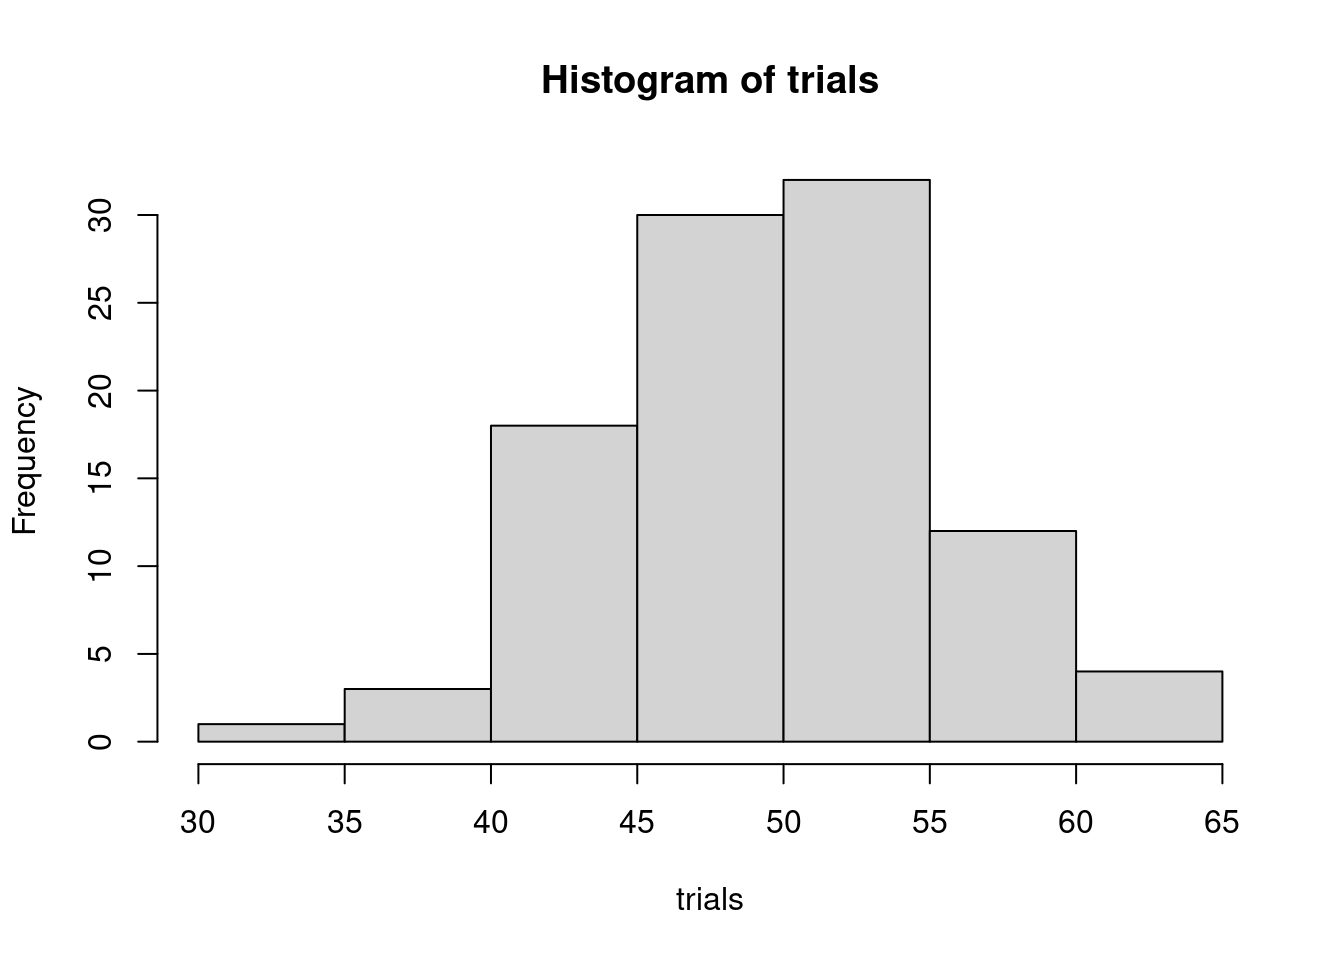
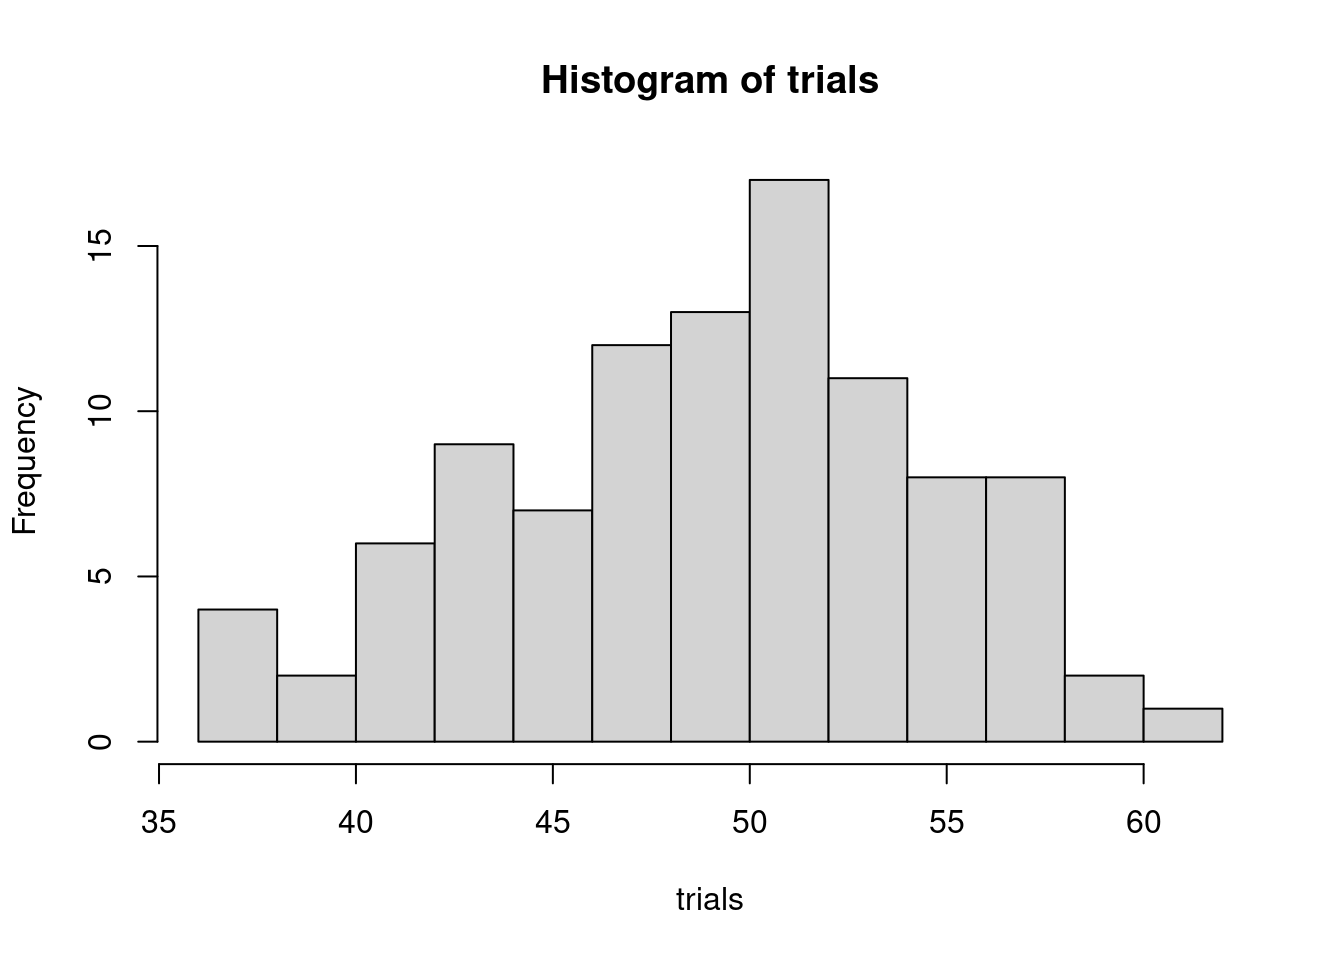
Variance added - ready to publish

diff --git a/_book/discrete-probability.html b/_book/discrete-probability.html
@@ -336,18 +336,18 @@ code span.wa { color: #60a0b0; font-weight: bold; font-style: italic; } /* Warni
 <div class="sourceCode" id="cb1"><pre class="sourceCode r"><code class="sourceCode r"><span id="cb1-1"><a href="discrete-probability.html#cb1-1" aria-hidden="true" tabindex="-1"></a>x <span class="ot">&lt;-</span> <span class="fu">c</span>(<span class="st">&quot;H&quot;</span>, <span class="st">&quot;T&quot;</span>)</span>
 <span id="cb1-2"><a href="discrete-probability.html#cb1-2" aria-hidden="true" tabindex="-1"></a>result <span class="ot">&lt;-</span> <span class="fu">sample</span>(x, <span class="dv">200</span>, <span class="at">replace=</span><span class="cn">TRUE</span>)</span>
 <span id="cb1-3"><a href="discrete-probability.html#cb1-3" aria-hidden="true" tabindex="-1"></a>result</span></code></pre></div>
-<pre><code>##   [1] &quot;H&quot; &quot;T&quot; &quot;T&quot; &quot;T&quot; &quot;H&quot; &quot;H&quot; &quot;T&quot; &quot;H&quot; &quot;T&quot; &quot;H&quot; &quot;H&quot; &quot;T&quot; &quot;H&quot; &quot;T&quot; &quot;T&quot; &quot;H&quot; &quot;T&quot; &quot;T&quot;
-##  [19] &quot;T&quot; &quot;T&quot; &quot;H&quot; &quot;T&quot; &quot;H&quot; &quot;T&quot; &quot;T&quot; &quot;H&quot; &quot;T&quot; &quot;T&quot; &quot;T&quot; &quot;T&quot; &quot;T&quot; &quot;T&quot; &quot;T&quot; &quot;T&quot; &quot;H&quot; &quot;T&quot;
-##  [37] &quot;T&quot; &quot;H&quot; &quot;T&quot; &quot;H&quot; &quot;T&quot; &quot;H&quot; &quot;H&quot; &quot;H&quot; &quot;H&quot; &quot;H&quot; &quot;T&quot; &quot;H&quot; &quot;H&quot; &quot;T&quot; &quot;T&quot; &quot;H&quot; &quot;H&quot; &quot;H&quot;
-##  [55] &quot;H&quot; &quot;H&quot; &quot;H&quot; &quot;T&quot; &quot;H&quot; &quot;T&quot; &quot;H&quot; &quot;T&quot; &quot;H&quot; &quot;H&quot; &quot;H&quot; &quot;H&quot; &quot;H&quot; &quot;T&quot; &quot;T&quot; &quot;H&quot; &quot;T&quot; &quot;T&quot;
-##  [73] &quot;T&quot; &quot;H&quot; &quot;T&quot; &quot;H&quot; &quot;H&quot; &quot;H&quot; &quot;T&quot; &quot;T&quot; &quot;T&quot; &quot;H&quot; &quot;H&quot; &quot;H&quot; &quot;H&quot; &quot;T&quot; &quot;T&quot; &quot;H&quot; &quot;H&quot; &quot;H&quot;
-##  [91] &quot;T&quot; &quot;T&quot; &quot;H&quot; &quot;T&quot; &quot;T&quot; &quot;T&quot; &quot;T&quot; &quot;T&quot; &quot;H&quot; &quot;T&quot; &quot;H&quot; &quot;H&quot; &quot;T&quot; &quot;T&quot; &quot;H&quot; &quot;T&quot; &quot;T&quot; &quot;T&quot;
-## [109] &quot;H&quot; &quot;T&quot; &quot;T&quot; &quot;H&quot; &quot;H&quot; &quot;H&quot; &quot;H&quot; &quot;T&quot; &quot;T&quot; &quot;H&quot; &quot;T&quot; &quot;T&quot; &quot;T&quot; &quot;H&quot; &quot;T&quot; &quot;H&quot; &quot;T&quot; &quot;H&quot;
-## [127] &quot;H&quot; &quot;T&quot; &quot;H&quot; &quot;H&quot; &quot;T&quot; &quot;T&quot; &quot;H&quot; &quot;H&quot; &quot;H&quot; &quot;T&quot; &quot;H&quot; &quot;H&quot; &quot;T&quot; &quot;T&quot; &quot;H&quot; &quot;T&quot; &quot;T&quot; &quot;T&quot;
-## [145] &quot;T&quot; &quot;T&quot; &quot;T&quot; &quot;T&quot; &quot;T&quot; &quot;T&quot; &quot;H&quot; &quot;H&quot; &quot;T&quot; &quot;H&quot; &quot;H&quot; &quot;T&quot; &quot;H&quot; &quot;H&quot; &quot;H&quot; &quot;H&quot; &quot;T&quot; &quot;H&quot;
-## [163] &quot;T&quot; &quot;H&quot; &quot;T&quot; &quot;T&quot; &quot;H&quot; &quot;H&quot; &quot;T&quot; &quot;H&quot; &quot;T&quot; &quot;H&quot; &quot;T&quot; &quot;T&quot; &quot;T&quot; &quot;T&quot; &quot;H&quot; &quot;H&quot; &quot;T&quot; &quot;T&quot;
-## [181] &quot;H&quot; &quot;T&quot; &quot;T&quot; &quot;H&quot; &quot;H&quot; &quot;T&quot; &quot;H&quot; &quot;H&quot; &quot;H&quot; &quot;T&quot; &quot;T&quot; &quot;H&quot; &quot;H&quot; &quot;H&quot; &quot;T&quot; &quot;T&quot; &quot;T&quot; &quot;T&quot;
-## [199] &quot;T&quot; &quot;H&quot;</code></pre>
+<pre><code>##   [1] &quot;H&quot; &quot;H&quot; &quot;H&quot; &quot;H&quot; &quot;H&quot; &quot;T&quot; &quot;T&quot; &quot;T&quot; &quot;H&quot; &quot;T&quot; &quot;T&quot; &quot;H&quot; &quot;T&quot; &quot;H&quot; &quot;H&quot; &quot;H&quot; &quot;H&quot; &quot;H&quot;
+##  [19] &quot;T&quot; &quot;H&quot; &quot;H&quot; &quot;H&quot; &quot;T&quot; &quot;H&quot; &quot;T&quot; &quot;H&quot; &quot;T&quot; &quot;T&quot; &quot;H&quot; &quot;T&quot; &quot;H&quot; &quot;T&quot; &quot;H&quot; &quot;T&quot; &quot;T&quot; &quot;T&quot;
+##  [37] &quot;H&quot; &quot;H&quot; &quot;T&quot; &quot;T&quot; &quot;T&quot; &quot;T&quot; &quot;H&quot; &quot;T&quot; &quot;H&quot; &quot;T&quot; &quot;H&quot; &quot;T&quot; &quot;T&quot; &quot;H&quot; &quot;H&quot; &quot;H&quot; &quot;T&quot; &quot;H&quot;
+##  [55] &quot;T&quot; &quot;H&quot; &quot;T&quot; &quot;H&quot; &quot;T&quot; &quot;T&quot; &quot;T&quot; &quot;T&quot; &quot;H&quot; &quot;T&quot; &quot;H&quot; &quot;T&quot; &quot;H&quot; &quot;T&quot; &quot;H&quot; &quot;T&quot; &quot;H&quot; &quot;H&quot;
+##  [73] &quot;T&quot; &quot;H&quot; &quot;T&quot; &quot;H&quot; &quot;H&quot; &quot;T&quot; &quot;T&quot; &quot;H&quot; &quot;H&quot; &quot;H&quot; &quot;T&quot; &quot;T&quot; &quot;H&quot; &quot;T&quot; &quot;H&quot; &quot;H&quot; &quot;T&quot; &quot;T&quot;
+##  [91] &quot;H&quot; &quot;T&quot; &quot;H&quot; &quot;T&quot; &quot;H&quot; &quot;H&quot; &quot;T&quot; &quot;T&quot; &quot;H&quot; &quot;T&quot; &quot;T&quot; &quot;H&quot; &quot;H&quot; &quot;T&quot; &quot;T&quot; &quot;H&quot; &quot;T&quot; &quot;H&quot;
+## [109] &quot;H&quot; &quot;H&quot; &quot;T&quot; &quot;T&quot; &quot;H&quot; &quot;H&quot; &quot;T&quot; &quot;T&quot; &quot;H&quot; &quot;H&quot; &quot;H&quot; &quot;T&quot; &quot;H&quot; &quot;T&quot; &quot;H&quot; &quot;H&quot; &quot;H&quot; &quot;H&quot;
+## [127] &quot;H&quot; &quot;H&quot; &quot;H&quot; &quot;T&quot; &quot;H&quot; &quot;H&quot; &quot;T&quot; &quot;H&quot; &quot;H&quot; &quot;T&quot; &quot;H&quot; &quot;H&quot; &quot;T&quot; &quot;H&quot; &quot;T&quot; &quot;T&quot; &quot;T&quot; &quot;T&quot;
+## [145] &quot;T&quot; &quot;T&quot; &quot;T&quot; &quot;T&quot; &quot;T&quot; &quot;H&quot; &quot;H&quot; &quot;H&quot; &quot;T&quot; &quot;H&quot; &quot;H&quot; &quot;T&quot; &quot;H&quot; &quot;T&quot; &quot;T&quot; &quot;T&quot; &quot;H&quot; &quot;H&quot;
+## [163] &quot;T&quot; &quot;T&quot; &quot;H&quot; &quot;H&quot; &quot;T&quot; &quot;T&quot; &quot;H&quot; &quot;H&quot; &quot;H&quot; &quot;H&quot; &quot;H&quot; &quot;H&quot; &quot;H&quot; &quot;H&quot; &quot;H&quot; &quot;T&quot; &quot;H&quot; &quot;H&quot;
+## [181] &quot;H&quot; &quot;T&quot; &quot;H&quot; &quot;T&quot; &quot;T&quot; &quot;T&quot; &quot;T&quot; &quot;T&quot; &quot;T&quot; &quot;H&quot; &quot;T&quot; &quot;H&quot; &quot;T&quot; &quot;T&quot; &quot;H&quot; &quot;H&quot; &quot;H&quot; &quot;T&quot;
+## [199] &quot;H&quot; &quot;H&quot;</code></pre>
 <p>You can also pass the sample command a list of probabilities for each element of x; note that order matters so check it. For a fair coin the default of each outcome being equally likely works. However note that unfair coins are not unheard of - you can purchase them at magic and toy shops.</p>
 <p>A typical human trying to fake coin flips will distribute them too uniformly and will not have as many long sequences of “H” as we expect to see from an actual experiment.</p>
 </div>
@@ -357,16 +357,16 @@ code span.wa { color: #60a0b0; font-weight: bold; font-style: italic; } /* Warni
 <div class="sourceCode" id="cb3"><pre class="sourceCode r"><code class="sourceCode r"><span id="cb3-1"><a href="discrete-probability.html#cb3-1" aria-hidden="true" tabindex="-1"></a>x <span class="ot">&lt;-</span> <span class="fu">c</span>(<span class="dv">1</span>, <span class="dv">0</span>)</span>
 <span id="cb3-2"><a href="discrete-probability.html#cb3-2" aria-hidden="true" tabindex="-1"></a>result <span class="ot">&lt;-</span> <span class="fu">sample</span>(x, <span class="dv">130</span>, <span class="at">replace =</span> <span class="cn">TRUE</span>, <span class="at">prob=</span><span class="fu">c</span>(<span class="fl">0.38</span>, <span class="fl">0.62</span>) )</span>
 <span id="cb3-3"><a href="discrete-probability.html#cb3-3" aria-hidden="true" tabindex="-1"></a>result</span></code></pre></div>
-<pre><code>##   [1] 0 0 0 1 0 0 0 1 0 0 1 0 0 1 0 0 0 0 1 0 0 1 1 1 1 0 1 0 0 1 1 1 0 0 0 0 1
-##  [38] 1 0 0 0 0 0 0 0 0 0 0 0 0 1 0 1 1 0 0 1 0 1 0 1 0 0 1 1 0 1 0 0 0 1 0 1 1
-##  [75] 0 0 0 0 1 0 0 1 0 1 1 1 1 0 0 0 1 0 0 0 0 0 1 0 1 0 0 0 1 1 1 1 1 0 1 0 0
-## [112] 0 0 0 0 0 1 0 0 0 1 1 0 0 0 0 1 1 0 1</code></pre>
+<pre><code>##   [1] 0 1 0 0 1 1 0 0 0 1 0 0 1 1 1 1 0 1 0 1 1 0 0 0 1 0 0 1 1 1 1 0 0 0 0 1 1
+##  [38] 0 1 0 0 1 1 0 1 0 1 0 0 0 1 1 0 0 1 0 1 1 1 0 0 1 0 1 1 0 0 0 1 0 0 1 1 1
+##  [75] 0 0 1 0 0 1 0 1 0 0 0 1 1 0 0 1 0 0 1 0 0 1 1 0 1 1 0 0 1 0 1 0 0 1 1 0 0
+## [112] 0 0 0 0 1 0 0 0 0 0 1 0 1 1 1 0 1 0 0</code></pre>
 <p>You may notice that rather than using strings for the entries in <em>x</em> I used 1 and 0. The reason is that what we care about is the number of students that are food insecure, this is our random variable of interest and now we can compute its value by just summing up the numbers in <em>result</em> the value of which will be the number of 1s.</p>
 <div class="sourceCode" id="cb5"><pre class="sourceCode r"><code class="sourceCode r"><span id="cb5-1"><a href="discrete-probability.html#cb5-1" aria-hidden="true" tabindex="-1"></a><span class="fu">sum</span>(result)</span></code></pre></div>
-<pre><code>## [1] 48</code></pre>
+<pre><code>## [1] 57</code></pre>
 <p>Because the <em>sample</em> command uses (pseudo)-random numbers, if we run this again we will get a different result (also note each time I compile this textbook the values change). Do it a few times yourself and see what we get.</p>
 <div class="sourceCode" id="cb7"><pre class="sourceCode r"><code class="sourceCode r"><span id="cb7-1"><a href="discrete-probability.html#cb7-1" aria-hidden="true" tabindex="-1"></a><span class="fu">sum</span>(<span class="fu">sample</span>(x, <span class="dv">130</span>, <span class="at">replace=</span><span class="cn">TRUE</span>, <span class="at">prob=</span><span class="fu">c</span>(<span class="fl">0.38</span>, <span class="fl">0.62</span>)))</span></code></pre></div>
-<pre><code>## [1] 50</code></pre>
+<pre><code>## [1] 51</code></pre>
 <p>This is a little bit tedious to run a bunch of times and we also should be keeping track of the results. For example, what is the smallest value you have seen so far? Luckily, one of the things computers are absolutely brilliant at is doing the same thing over and over and keeping track of the results. Let me introduce you to one of the two real programming structures we will use in this class: a <em>for loop</em>. A for loop tells the computer to complete the same set of commands multiple times.</p>
 <div class="sourceCode" id="cb9"><pre class="sourceCode r"><code class="sourceCode r"><span id="cb9-1"><a href="discrete-probability.html#cb9-1" aria-hidden="true" tabindex="-1"></a><span class="co"># We are going to keep track of the results in a variable called trials, so we first initalize this variable as an empty column</span></span>
 <span id="cb9-2"><a href="discrete-probability.html#cb9-2" aria-hidden="true" tabindex="-1"></a>trials <span class="ot">&lt;-</span> <span class="fu">c</span>()</span>
@@ -380,17 +380,17 @@ code span.wa { color: #60a0b0; font-weight: bold; font-style: italic; } /* Warni
 <span id="cb9-10"><a href="discrete-probability.html#cb9-10" aria-hidden="true" tabindex="-1"></a>}</span>
 <span id="cb9-11"><a href="discrete-probability.html#cb9-11" aria-hidden="true" tabindex="-1"></a></span>
 <span id="cb9-12"><a href="discrete-probability.html#cb9-12" aria-hidden="true" tabindex="-1"></a>trials</span></code></pre></div>
-<pre><code>##   [1] 51 49 56 56 52 47 55 49 51 53 55 48 51 48 43 63 53 64 48 48 46 48 43 50 45
-##  [26] 52 44 65 51 47 45 58 48 48 44 54 52 47 48 46 60 60 55 51 47 42 50 57 49 61
-##  [51] 47 55 41 55 53 56 53 45 59 56 60 42 51 43 50 37 41 52 46 54 53 48 48 57 34
-##  [76] 49 41 48 54 37 53 55 40 44 53 53 53 42 55 50 52 52 59 50 54 50 43 46 42 44</code></pre>
+<pre><code>##   [1] 50 57 46 47 50 57 42 57 51 42 37 50 46 53 57 36 47 37 54 49 49 46 42 50 58
+##  [26] 51 46 51 49 52 41 51 52 52 53 43 56 52 45 59 52 53 47 53 51 44 53 47 39 41
+##  [51] 53 51 57 50 56 38 43 51 50 49 43 56 52 43 44 47 53 57 42 47 44 54 48 47 51
+##  [76] 55 53 49 47 56 49 45 51 55 40 57 46 48 47 56 47 49 54 43 61 59 51 43 51 55</code></pre>
 <p>Let’s use a historgram to look at the result:</p>
 <div class="sourceCode" id="cb11"><pre class="sourceCode r"><code class="sourceCode r"><span id="cb11-1"><a href="discrete-probability.html#cb11-1" aria-hidden="true" tabindex="-1"></a><span class="co"># The paramter breaks is determining how many bins to use</span></span>
 <span id="cb11-2"><a href="discrete-probability.html#cb11-2" aria-hidden="true" tabindex="-1"></a><span class="fu">hist</span>(trials, <span class="at">breaks=</span><span class="dv">10</span>)</span></code></pre></div>
 <p><img src="_main_files/figure-html/unnamed-chunk-6-1.png" width="672" /></p>
 <div class="sourceCode" id="cb12"><pre class="sourceCode r"><code class="sourceCode r"><span id="cb12-1"><a href="discrete-probability.html#cb12-1" aria-hidden="true" tabindex="-1"></a><span class="fu">summary</span>(trials)</span></code></pre></div>
 <pre><code>##    Min. 1st Qu.  Median    Mean 3rd Qu.    Max. 
-##   34.00   46.00   50.00   50.08   54.00   65.00</code></pre>
+##   36.00   46.00   50.00   49.36   53.00   61.00</code></pre>
 <p>So interestingly the minimum value is not very small. What does this tell us about the number of mathematics majors we might see that are food insecure? What would our interpretation be if we found only 10 of the mathematics majors were food insecure?</p>
 <p>Finally you can probably tell me you are not surprised that the mean is close to</p>
 <div class="sourceCode" id="cb14"><pre class="sourceCode r"><code class="sourceCode r"><span id="cb14-1"><a href="discrete-probability.html#cb14-1" aria-hidden="true" tabindex="-1"></a><span class="fl">0.38</span> <span class="sc">*</span> <span class="dv">130</span></span></code></pre></div>
